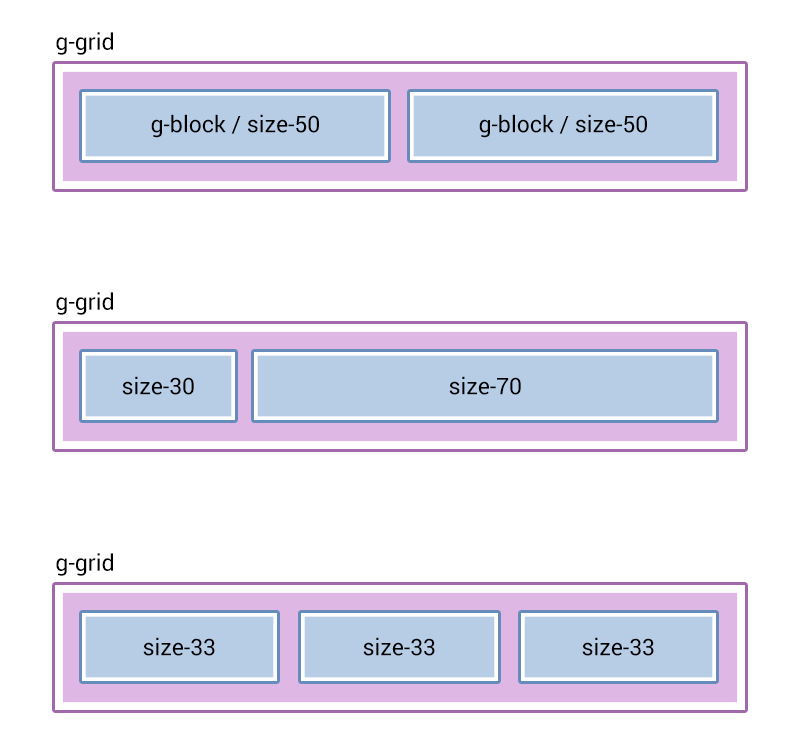
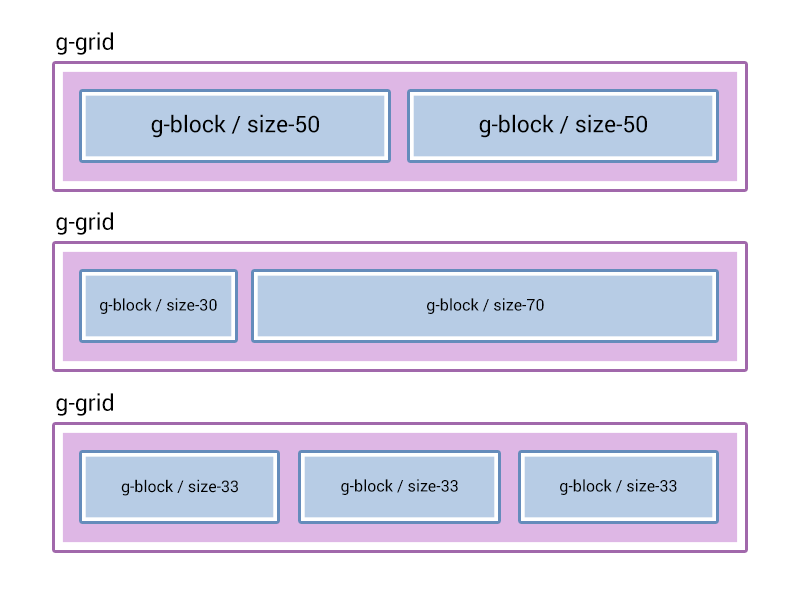
More Responsive Content enhancements

diff --git a/pages/01.gantry5/05.advanced/10.responsive-content/docs.md b/pages/01.gantry5/05.advanced/10.responsive-content/docs.md
@@ -7,32 +7,38 @@ taxonomy:
 
 Sometimes, you will want to create custom responsive content within the bounds of a simple content area. For example, within an article/post on your site, as opposed to being created dynamically through a particle.
 
-The way this is done in Gantry 5 is a lot like it was in Gantry 4, with a few minor differences in syntax.
+The way this is done in Gantry 5 is a lot easier than it was in Gantry 4. Gantry 5 comes with a built-in and lightweight CSS framework that we called `Nucleus`. Nucleus main focus is to provide a flex-ready layout. This means that if you just follow a few rules in building your responsive layout, you will never have a problem, no matter how deep your layout is going to be.
 
-When using these classes, create your HTML code for a block, then set the percentage size that the block should use.
+For your content you will only need to know about 3 types of classes that come with `Nucleus`:
 
-You repeat this process until the accumulated total of your blocks is equal to a 100% for any given grid.
+#### `g-row`
+This is the container of your content surroundings and side-by-side columns. A row (or grid), will always occupy entirely the space it's been added to. Think of it as a 100% wide `div`.
 
-This is the basic structure example for the grid-block:
- 
-![](blocks.png)
+A `g-row` can contain only `g-block` elements in it, nothing else. This is important in order to have the flex-grid working responsively.
 
-In **mobile** view, these blocks will stack on top of each other while in **tablet** or **desktop** view, these blocks will scale responsively.
+#### `g-block` and `size-%`
+This is the container of your actual content. A `g-block`, by default, is `100%` wide and in it you can put any desired content, whether it's an image, a paragraph or even another `g-grid > g-block` layout.
 
-If you want some spacing or a margin between your blocks, use the gantry-width spacer class.
-
-Here is a quick breakdown of the available classes, and if you're familiar with Gantry 4, their equivalent class name in Gantry 4.
-
-| Gantry 4 Class Name    | Gantry 5 Class Name |
-| :-----                 | :-----              |
-| gantry-row             | g-row               |
-| gantry-width-container | g-container         |
-| gantry-width-%%        | size-%%             |
-| gantry-width-spacer    | *`non existant`*    |
+When your `g-block` is accompanied by a `size-%` class, you can change its default `100%` size. Sizes can go from `5` to `95` with a multiplier of `5`.
 
 The available custom widths are `.size-5 .size-10`, `.size-15`, `.size-20`, `.size-25`, `.size-30`, `.size-33`, `.size-40`, `.size-50`, `.size-60`, `.size-66`, `.size-70`, `.size-75`, `.size-80`, `.size-85`, `.size-90 .size-95`.
 
-Here are some examples along with the code that created them.
+In **mobile** view, these blocks will stack on top of each other while in **tablet** or **desktop** view, these blocks will scale responsively.
+     
+> When you have multiple blocks inside a grid, make sure that the size of the blocks sum up to 100%
+
+ 
+![](blocks.png)
+
+The structure is always going to be the same, first a `grid` then a `block`, inside the block goes your final content which might include another `grid` and another `block`.
+
+```
+.g-grid
+    .g-block.size-50
+        [your content for left column]
+    .g-block.size-50
+        [your content for right column]
+```
 
 ## Example 1
 
